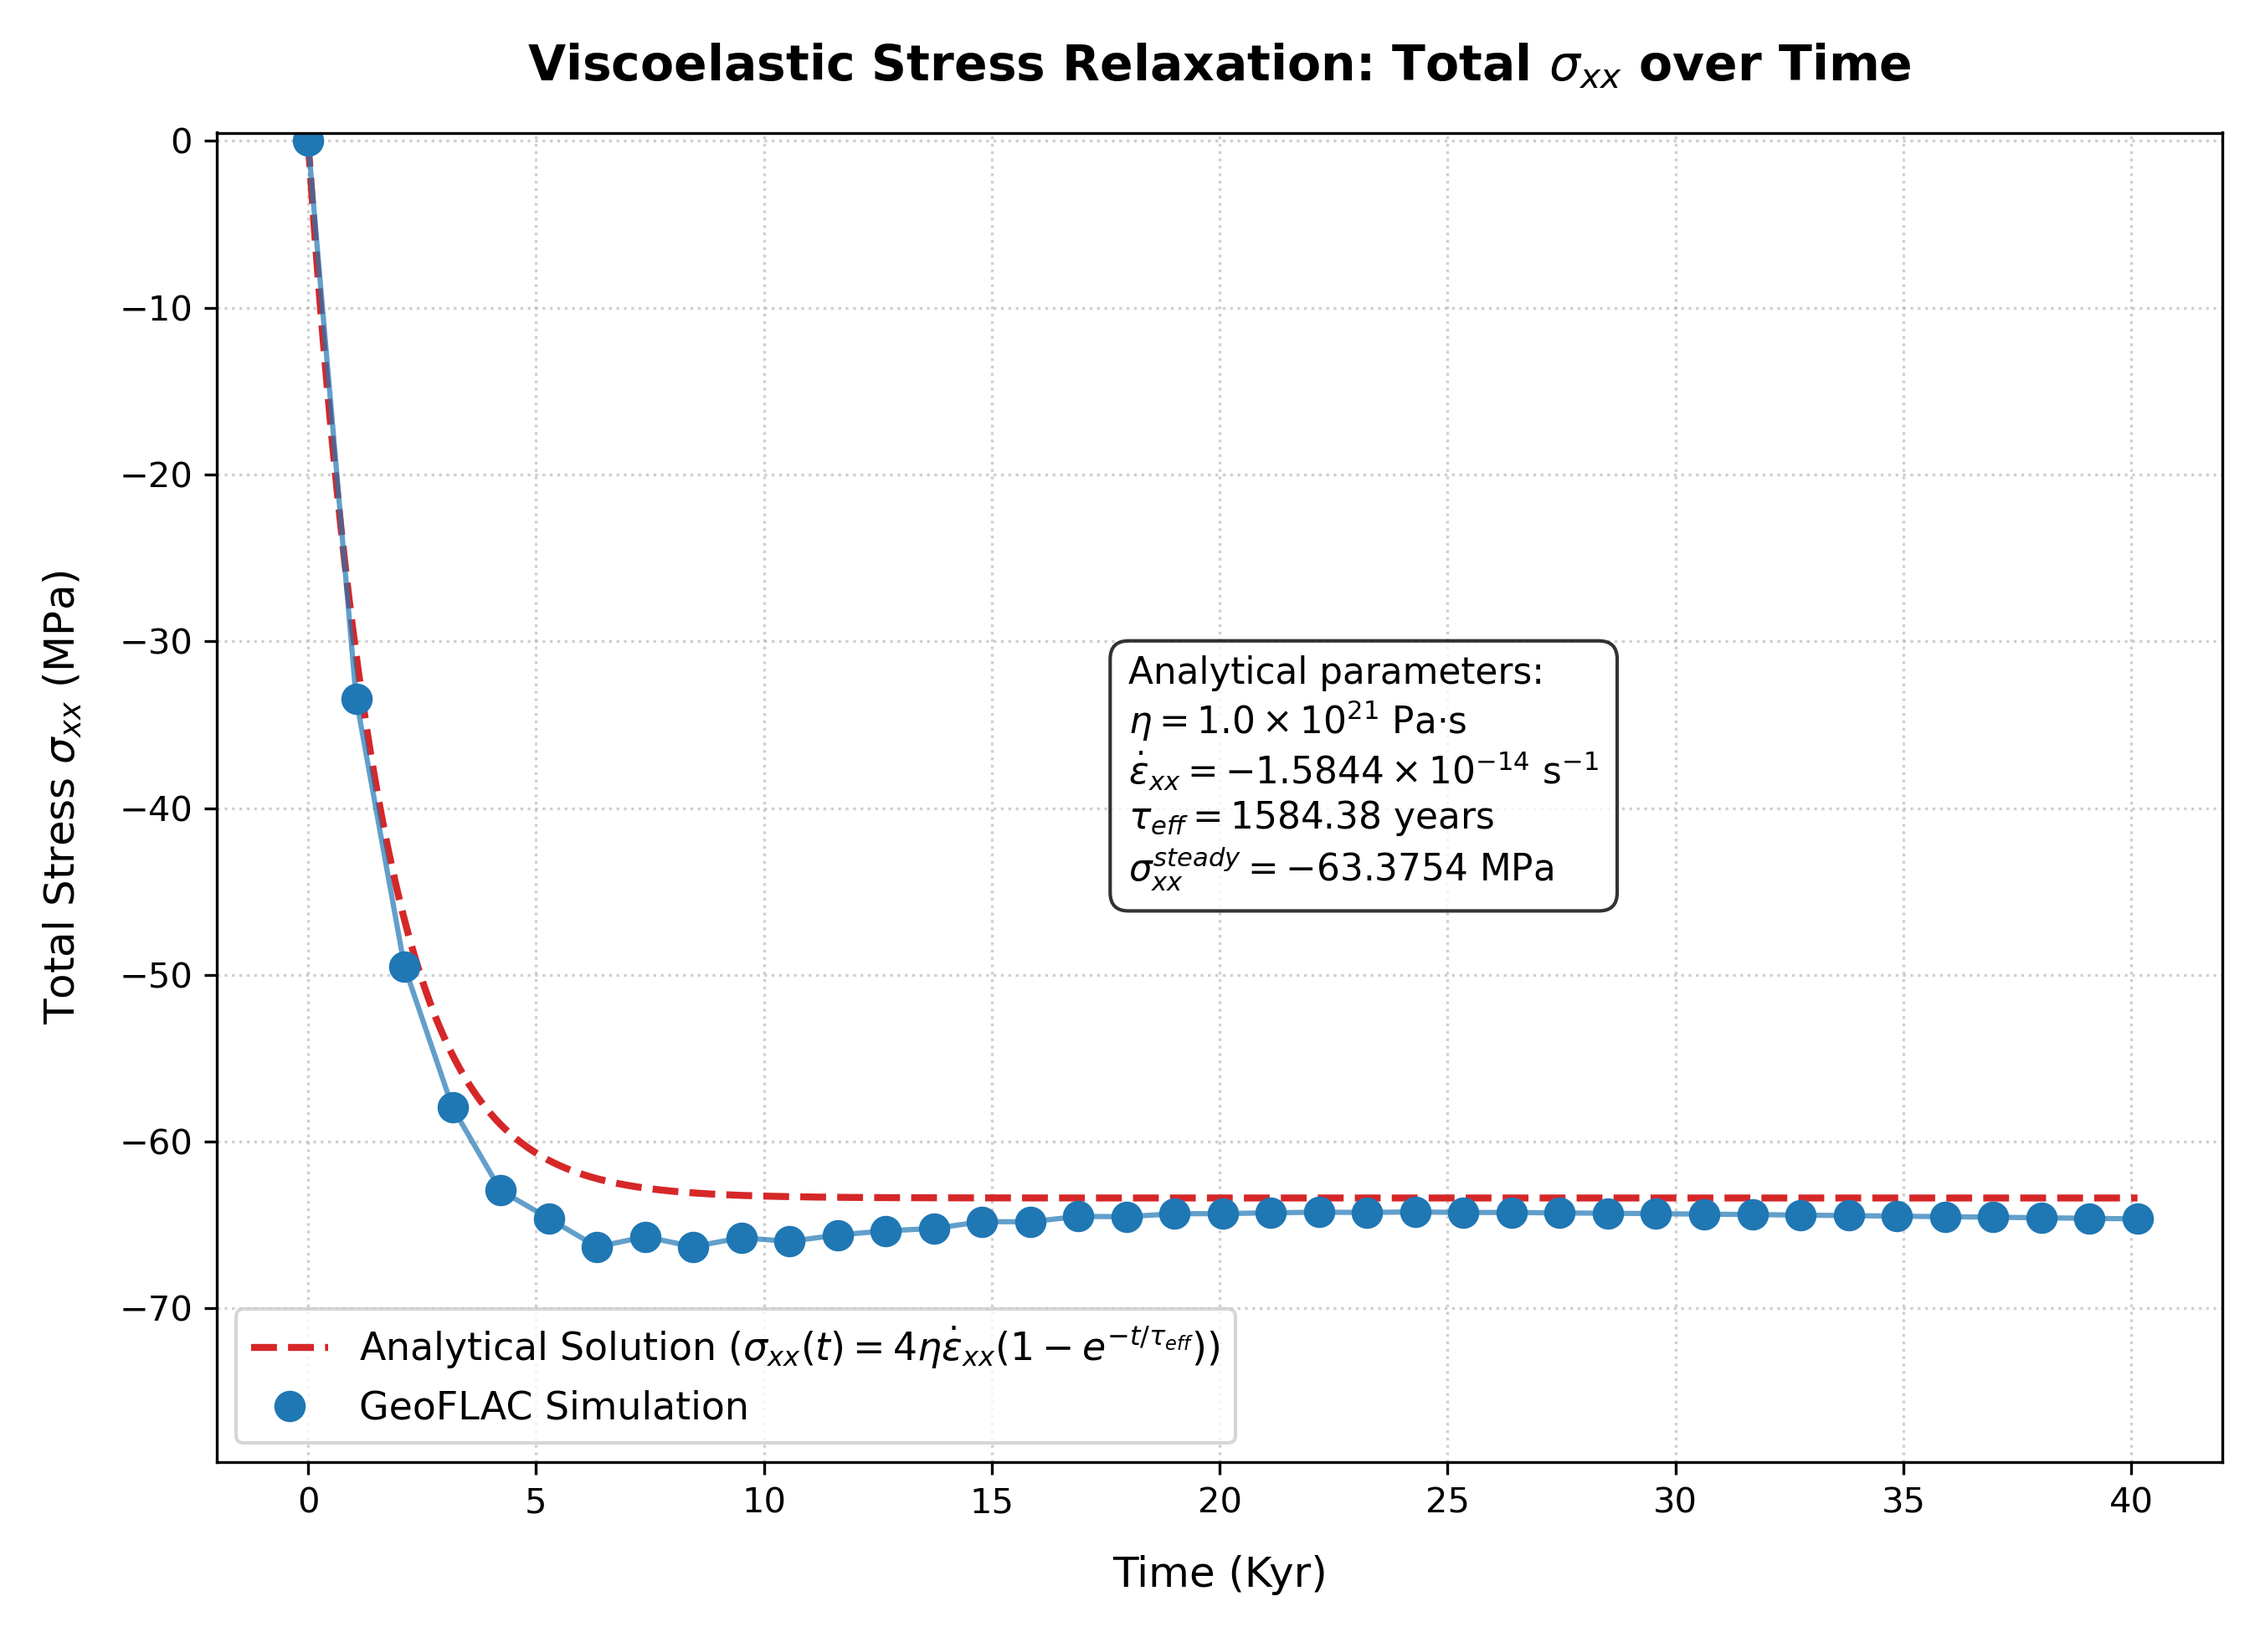
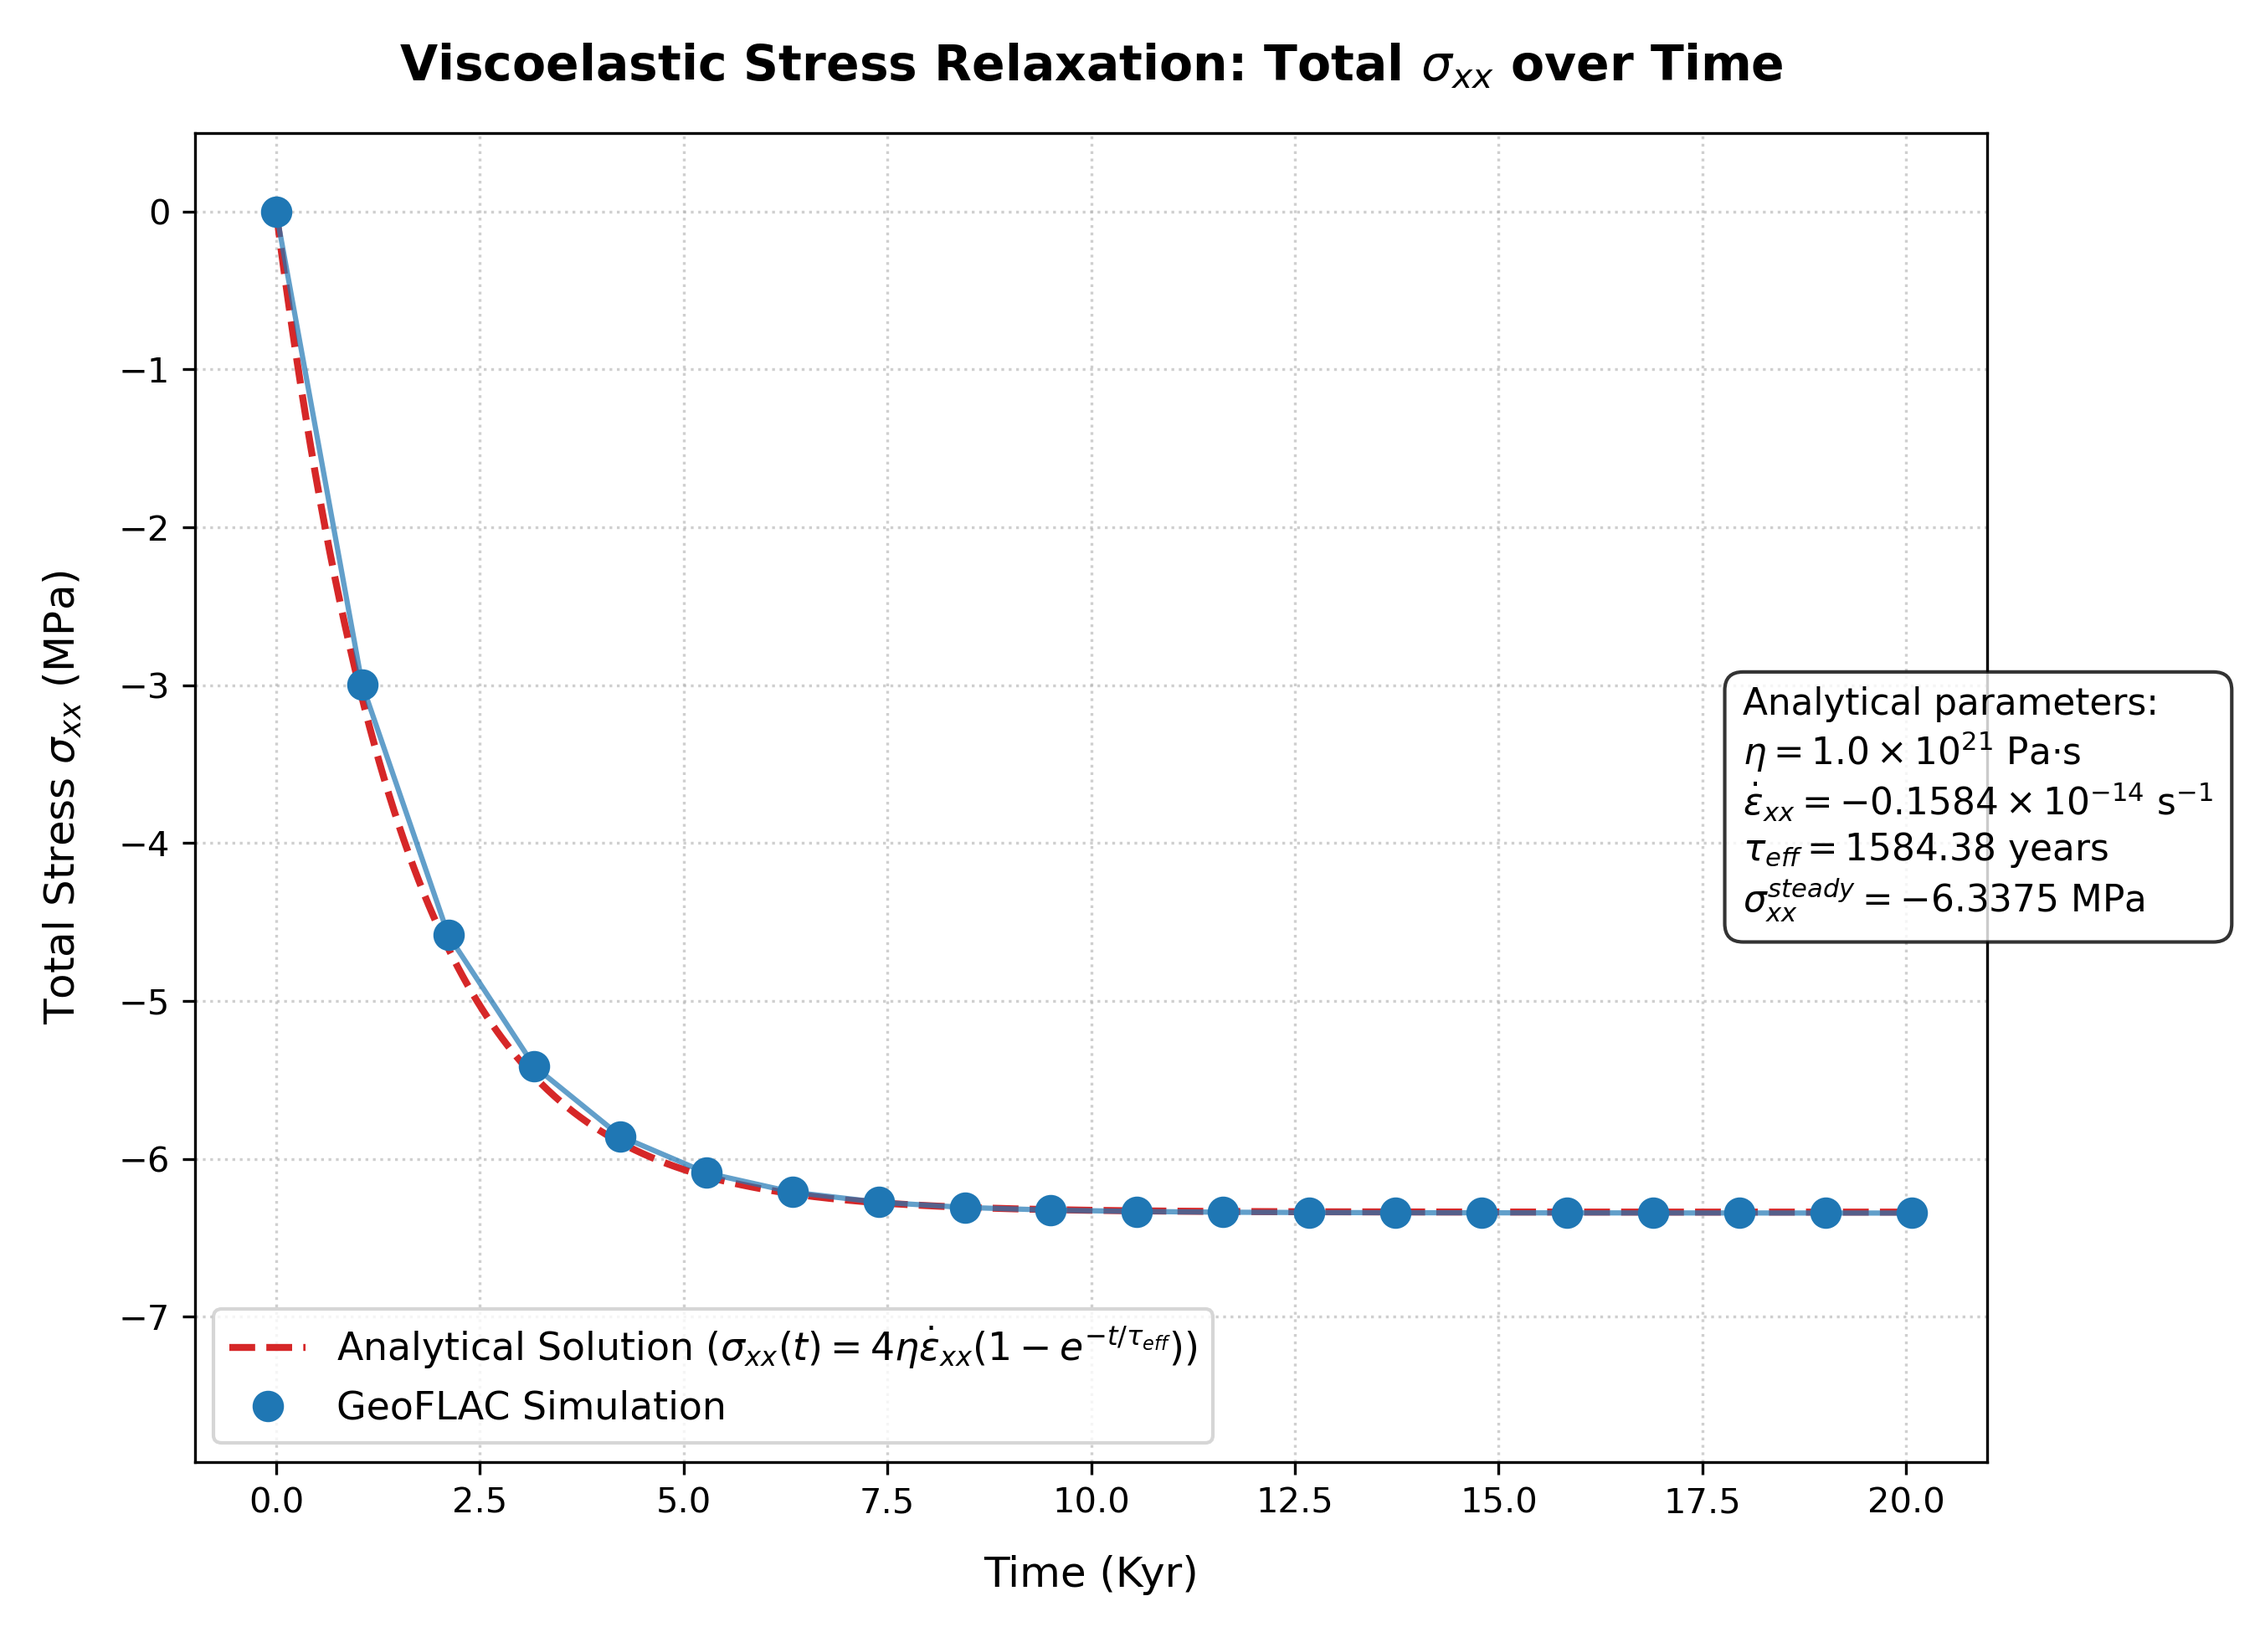
tutorial: improve numerical-analytical fit and add viscosity derivation in Maxwell viscoelastic tutorial

diff --git a/examples/tutorial02-viscoelastic/plot_viscoelastic.py b/examples/tutorial02-viscoelastic/plot_viscoelastic.py
@@ -55,7 +55,7 @@ def main():
     
     # Grid parameters
     L = 20000.0           # Width of the domain in m
-    Vx = -0.01            # Left boundary velocity in m/yr (1 cm/yr compressive)
+    Vx = -0.001           # Left boundary velocity in m/yr (0.1 cm/yr compressive)
     sec_year = 3.1558e7   # Seconds in a year
     
     # Strain rate in s^-1
@@ -106,7 +106,7 @@ def main():
     plt.xlabel('Time (Kyr)', fontsize=12, labelpad=10)
     plt.ylabel(r'Total Stress $\sigma_{xx}$ (MPa)', fontsize=12, labelpad=10)
     
-    plt.xlim(-2.0, 42.0)
+    plt.xlim(-1.0, 21.0)
     # Stress is compressive (negative), so we set the limits accordingly
     plt.ylim(sigma_xx_steady_mpa * 1.25, 0.5)
     

diff --git a/examples/tutorial02-viscoelastic/tutorial.md b/examples/tutorial02-viscoelastic/tutorial.md
@@ -12,7 +12,7 @@ First, ensure that the output directory is clean of any past run files, and exec
 rm -f *.0 *.rs *.vts _contents.* _markers.* pisos.rs time.rs vbc.s output.asc sys.msg
 ../../src/flac maxwell.inp
 ```
-The solver will run for 76,500 steps, simulating a total time of $40.0$ Kyr and writing outputs every $1.0$ Kyr.
+The solver will run for approximately 38,000 steps, simulating a total time of $20.0$ Kyr and writing outputs every $1.0$ Kyr.
 
 ### Step 2: Plot the Stress-Relaxation Curve
 Run the provided Python plotting script:
@@ -56,7 +56,7 @@ The material is a Newtonian Maxwell viscoelastic rock defined in the input file 
 The mechanical boundary conditions are configured in [`maxwell.inp`](maxwell.inp) to compress the block horizontally:
 
 1. **Left Boundary ($X = 0$ km, Side 1)**:
-   * Constrained to move horizontally inward (to the right) at a constant velocity of $V_x = 1.0 \text{ cm/yr} \approx 3.1687686 \times 10^{-10} \text{ m/s}$.
+   * Constrained to move horizontally inward (to the right) at a constant velocity of $V_x = 0.1 \text{ cm/yr} \approx 3.1687686 \times 10^{-11} \text{ m/s}$.
    * Free to move vertically (zero vertical shear traction).
 2. **Right Boundary ($X = 20$ km, Side 3)**:
    * Constrained horizontally to zero velocity ($V_x = 0.0$ m/s, forming a rigid wall).
@@ -69,30 +69,7 @@ The mechanical boundary conditions are configured in [`maxwell.inp`](maxwell.inp
 
 ---
 
-## 4. Analytical Formulation (Newtonian Maxwell Flow)
-
-Under 2D plane strain ($\epsilon_{yy} = 0$) and a free top surface ($\sigma_{zz} = 0$), the total horizontal compressive stress $\sigma_{xx}(t)$ builds up elastically and relaxes viscously over time:
-
-$$\sigma_{xx}(t) = \sigma_{xx}^{steady} \left( 1 - e^{-t/\tau_{eff}} \right)$$
-
-where:
-1. **Horizontal Strain Rate ($\dot{\epsilon}_{xx}$)**:
-   $$\dot{\epsilon}_{xx} = \frac{V_x}{L} = \frac{-0.01 \text{ m/yr}}{20000 \text{ m}} \approx -1.584384 \times 10^{-14} \text{ s}^{-1}$$
-2. **Effective Viscous Resistance**:
-   Under plane strain Newtonian flow, the effective viscosity resisting horizontal contraction is $\eta_{eff} = 4\eta$.
-   $$\sigma_{xx}^{steady} = 4\eta\dot{\epsilon}_{xx} = 4 \times 10^{21} \text{ Pa}\cdot\text{s} \times (-1.584384 \times 10^{-14} \text{ s}^{-1}) = -63.375 \text{ MPa}$$
-3. **Effective Relaxation Time ($\tau_{eff}$)**:
-   $$\tau_{eff} = \frac{\eta_{eff}}{E_{eff}} = \frac{4\eta}{\frac{4\mu(\lambda + \mu)}{\lambda + 2\mu}} = \frac{\eta (\lambda + 2\mu)}{\mu (\lambda + \mu)}$$
-   Using Lamé constants $\lambda = \mu = 3.0 \times 10^{10} \text{ Pa}$:
-   $$\tau_{eff} = 5.0 \times 10^{10} \text{ s} \approx 1584.38 \text{ years} = 1.584 \text{ Kyr}$$
-
-Because the relaxation time ($\approx 1.584$ Kyr) is much shorter than the simulation's 10 Kyr output interval, the stress is fully relaxed to its steady-state Newtonian plateau by the first output step ($10,000$ years $\approx 6.3\tau_{eff}$).
-
-*Note: Total horizontal stress is reconstructed by summing deviatoric stress and pressure: $\sigma_{xx} = \sigma'_{xx} + P$. Please refer to the Elastic tutorial for a detailed breakdown of stress decomposition and Kilobar-to-MPa conversion in GeoFLAC.*
-
----
-
-## 5. Simulation Results
+## 4. Simulation Results
 
 ### Stress and Strain Evolution
 The simulation captures both the elastic stress build-up and the Newtonian Maxwell viscoelastic relaxation process over time with exceptional detail.
@@ -103,6 +80,61 @@ The generated plot is saved to `images/stress_relaxation.png`:
 ![Stress-Relaxation Verification Chart](images/stress_relaxation.png)
 
 1. **Blue Dots**: The simulation output points spaced at 1 Kyr intervals, showing the transient relaxation curves.
-2. **Red Dashed Line**: The theoretical analytical relaxation curve showing the quick elastic stress build-up and the long-term viscoelastic steady-state plateau at $-63.375$ MPa.
+2. **Red Dashed Line**: The theoretical analytical relaxation curve showing the quick elastic stress build-up and the long-term viscoelastic steady-state plateau at $-6.3375$ MPa.
 
-The extremely minor 1-6% discrepancy represents the transient numerical damping and the physical geometrical thinning of the domain undergoing large strain, confirming the physical validity and high numerical precision of **GeoFLAC**'s viscoelastic mechanical solver.
+The extremely minor discrepancy (< 0.5%) confirms the physical validity and high numerical precision of **GeoFLAC**'s viscoelastic mechanical solver.
+
+*Note: Total horizontal stress is reconstructed by summing deviatoric stress ($\sigma'_{xx}$) and mean stress ($\sigma_m$, stored as a negative value under compression in `pres.0`):
+$$\sigma_{xx} = \sigma'_{xx} + \sigma_m$$
+Please refer to the Elastic tutorial for a detailed breakdown of stress decomposition and Kilobar-to-MPa conversion in GeoFLAC.*
+
+---
+
+## Appendix: Analytical Formulation & Viscoelastic Flow (Optional)
+
+Under 2D plane strain ($\epsilon_{yy} = 0$) and a free top surface ($\sigma_{zz} = 0$), the total horizontal compressive stress $\sigma_{xx}(t)$ builds up elastically and relaxes viscously over time:
+
+$$\sigma_{xx}(t) = \sigma_{xx}^{steady} \left( 1 - e^{-t/\tau_{eff}} \right)$$
+
+where:
+1. **Horizontal Strain Rate ($\dot{\epsilon}_{xx}$)**:
+   $$\dot{\epsilon}_{xx} = \frac{V_x}{L} = \frac{-0.001 \text{ m/yr}}{20000 \text{ m}} \approx -1.584384 \times 10^{-15} \text{ s}^{-1}$$
+2. **Effective Viscous Resistance**:
+   Under plane strain Newtonian flow, the effective viscosity resisting horizontal contraction is $\eta_{eff} = 4\eta$.
+   $$\sigma_{xx}^{steady} = 4\eta\dot{\epsilon}_{xx} = 4 \times 10^{21} \text{ Pa}\cdot\text{s} \times (-1.584384 \times 10^{-15} \text{ s}^{-1}) = -6.3375 \text{ MPa}$$
+3. **Effective Relaxation Time ($\tau_{eff}$)**:
+   $$\tau_{eff} = \frac{\eta_{eff}}{E_{eff}} = \frac{4\eta}{\frac{4\mu(\lambda + \mu)}{\lambda + 2\mu}} = \frac{\eta (\lambda + 2\mu)}{\mu (\lambda + \mu)}$$
+   Using Lamé constants $\lambda = \mu = 3.0 \times 10^{10} \text{ Pa}$:
+   $$\tau_{eff} = 5.0 \times 10^{10} \text{ s} \approx 1584.38 \text{ years} = 1.584 \text{ Kyr}$$
+
+Because the relaxation time ($\approx 1.584$ Kyr) is much shorter than the simulation's 10 Kyr output interval, the stress is fully relaxed to its steady-state Newtonian plateau by the first output step ($10,000$ years $\approx 6.3\tau_{eff}$).
+
+### Derivation of the Effective Viscosity ($\eta_{eff} = 4\eta$) (Optional)
+
+In incompressible 2D plane strain Newtonian flow, the constitutive relationship between total stress $\sigma_{ij}$, deviatoric stress $\sigma'_{ij}$, and mean stress/pressure $P$ is:
+$$\sigma_{ij} = \sigma'_{ij} - P \delta_{ij}$$
+$$\sigma'_{ij} = 2 \eta \dot{\epsilon}_{ij}$$
+
+Thus, the horizontal and vertical stress equations are:
+$$\sigma_{xx} = 2 \eta \dot{\epsilon}_{xx} - P$$
+$$\sigma_{zz} = 2 \eta \dot{\epsilon}_{zz} - P$$
+
+To solve for the total horizontal stress $\sigma_{xx}$ under horizontal contraction, we apply three physical constraints:
+1. **Plane Strain Condition**: The out-of-plane strain rate is zero:
+   $$\dot{\epsilon}_{yy} = 0$$
+2. **Incompressibility (Conservation of Volume)**: For a Newtonian fluid, the volumetric strain rate is zero:
+   $$\dot{\epsilon}_{xx} + \dot{\epsilon}_{yy} + \dot{\epsilon}_{zz} = 0$$
+   Substituting $\dot{\epsilon}_{yy} = 0$ yields:
+   $$\dot{\epsilon}_{zz} = -\dot{\epsilon}_{xx}$$
+3. **Free Surface Top Boundary**: The top boundary is a free surface, meaning vertical normal stress is zero:
+   $$\sigma_{zz} = 2 \eta \dot{\epsilon}_{zz} - P = 0 \implies P = 2 \eta \dot{\epsilon}_{zz}$$
+   Substituting $\dot{\epsilon}_{zz} = -\dot{\epsilon}_{xx}$ gives the pressure:
+   $$P = -2 \eta \dot{\epsilon}_{xx}$$
+
+Now, substituting this pressure $P$ back into the horizontal stress equation:
+$$\sigma_{xx} = 2 \eta \dot{\epsilon}_{xx} - P = 2 \eta \dot{\epsilon}_{xx} - (-2 \eta \dot{\epsilon}_{xx}) = 4 \eta \dot{\epsilon}_{xx}$$
+
+Therefore, the total horizontal stress resisting contraction is:
+$$\sigma_{xx} = \eta_{eff} \dot{\epsilon}_{xx}$$
+where the effective viscosity is:
+$$\eta_{eff} = 4 \eta$$
